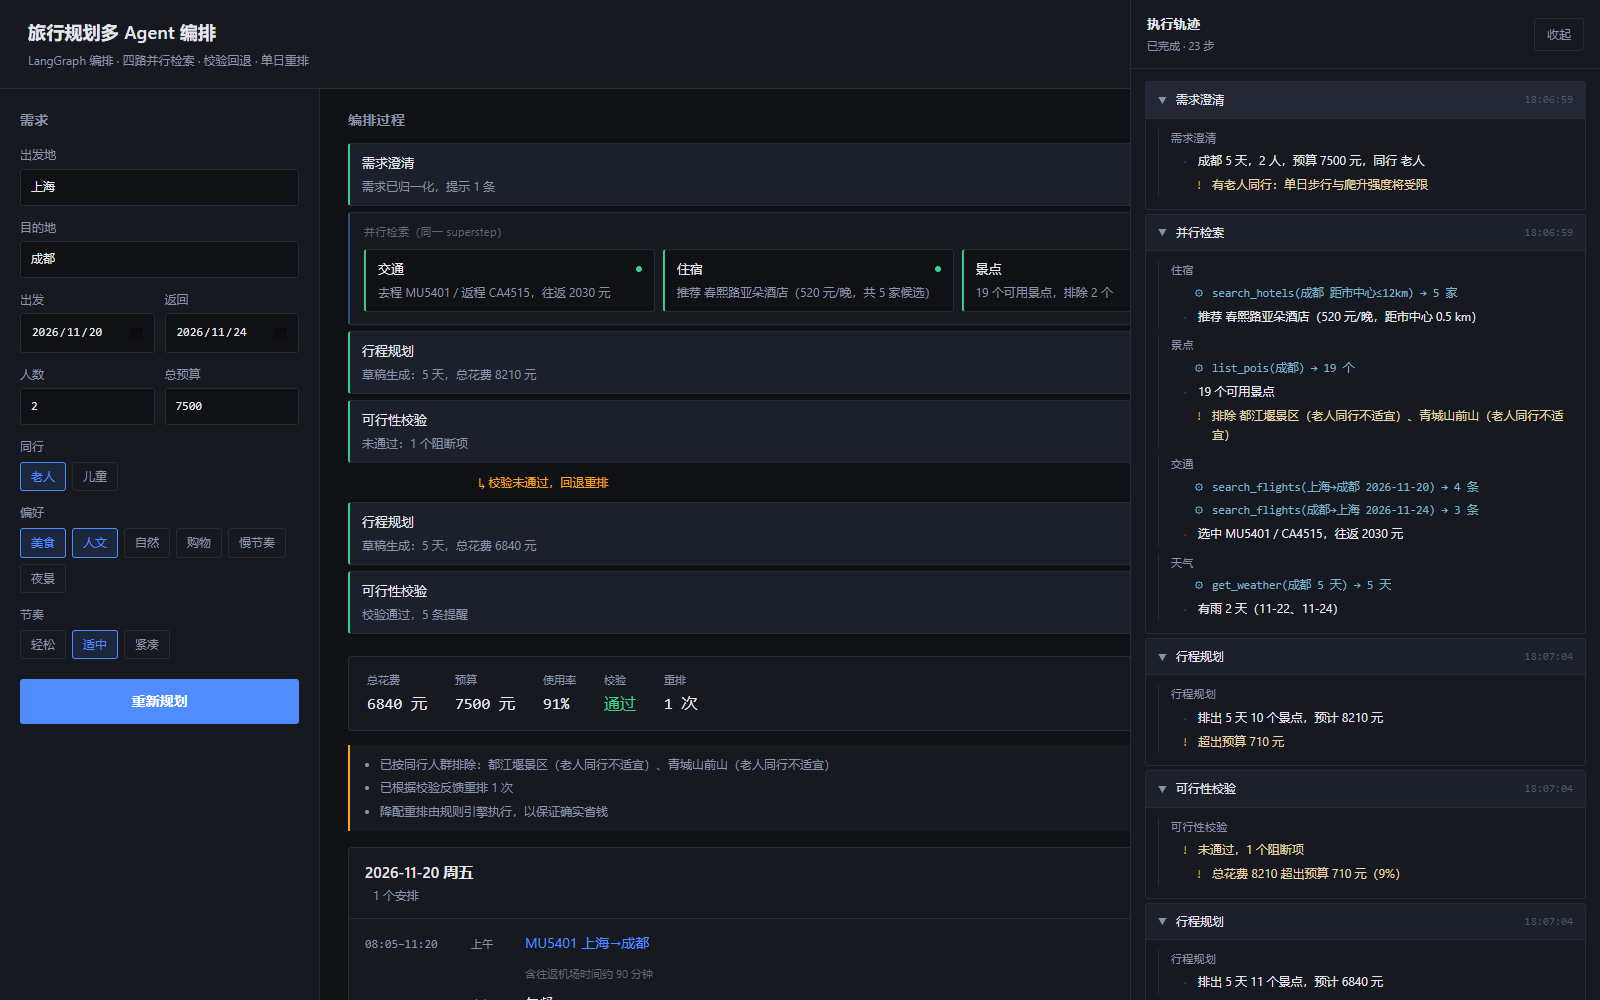
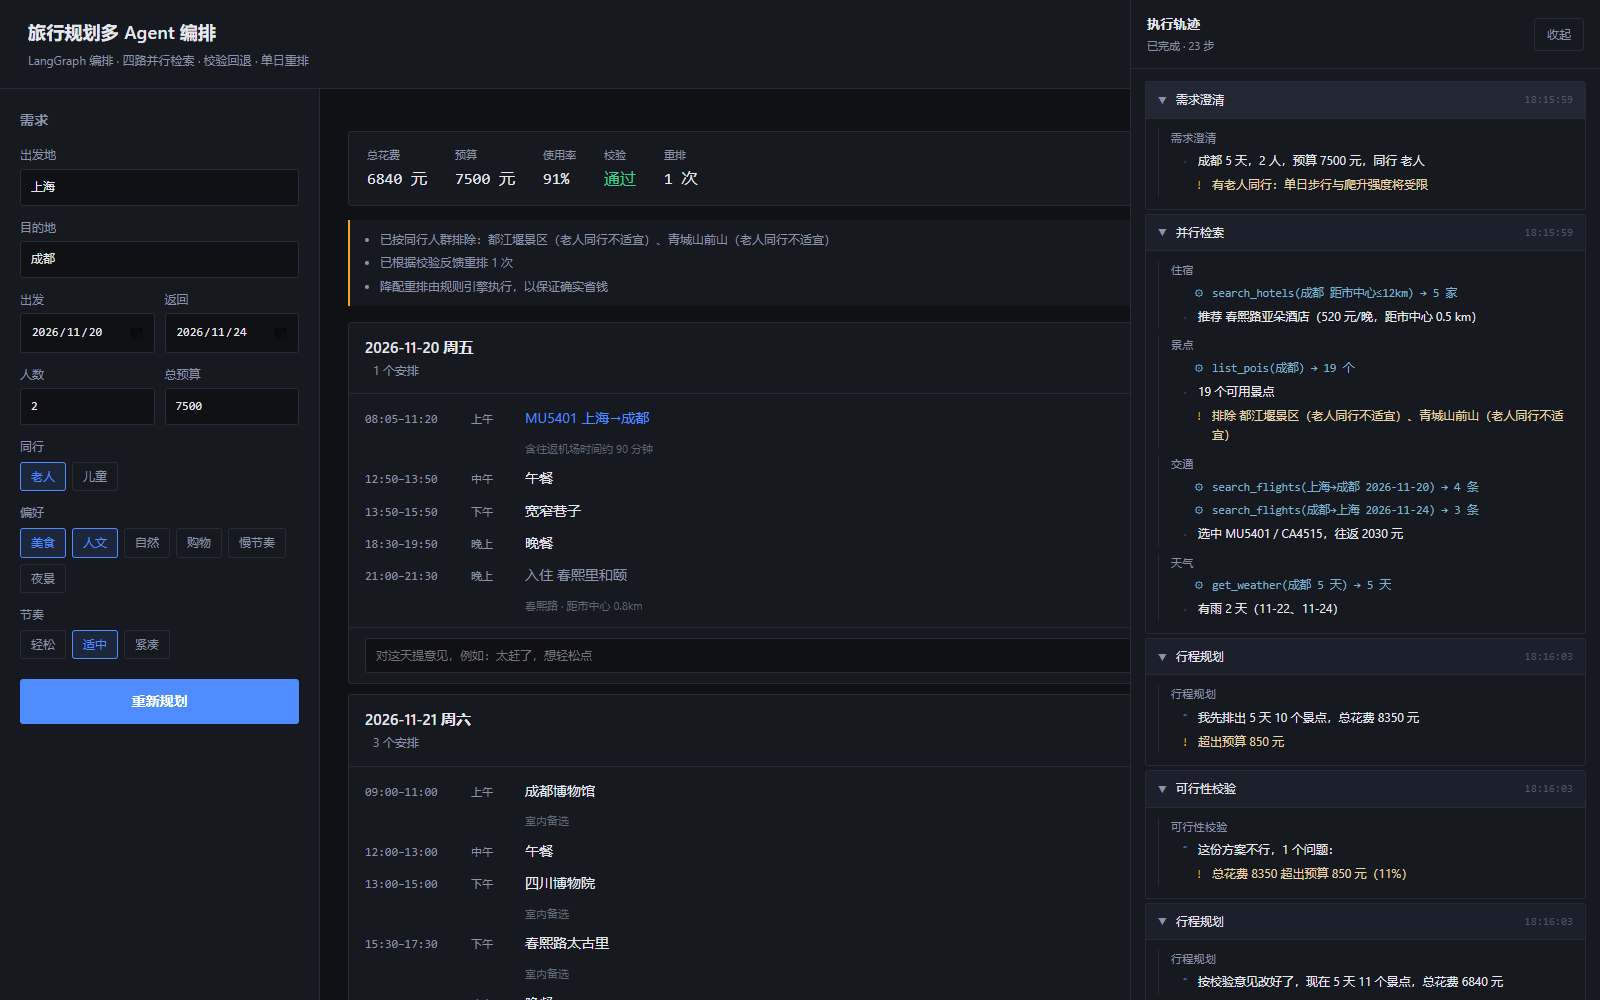
feat: 规划-校验-重排改为对话式轨迹，主区去掉重复的时间线
- planner/critic 的往复改为对话表述：先排出… / 这份方案不行… / 按校验意见改好了… / 没问题，可以定稿
- 移除主区编排过程卡片，过程只在右侧抽屉展示，避免与轨迹重复
- 清理因此失效的 renderAgent / groupCards / NODE_LABEL / PARALLEL 与 timelineRef
- verify_ui 改为检查抽屉内轨迹

diff --git a/frontend/src/App.tsx b/frontend/src/App.tsx
@@ -55,18 +55,6 @@ type Result = {
   activity?: LogEntry[]
 }
 
-const NODE_LABEL: Record<string, string> = {
-  clarify: '需求澄清',
-  transport: '交通',
-  lodging: '住宿',
-  poi: '景点',
-  weather: '天气',
-  planner: '行程规划',
-  critic: '可行性校验',
-}
-
-const PARALLEL = ['transport', 'lodging', 'poi', 'weather']
-
 const PREFERENCES = ['美食', '人文', '自然', '购物', '慢节奏', '夜景']
 const PACE = ['轻松', '适中', '紧凑'] as const
 
@@ -339,7 +327,6 @@ export default function App() {
   const [llmOn, setLlmOn] = useState(false)
   const [drawerOpen, setDrawerOpen] = useState(false)
   const [liveLogs, setLiveLogs] = useState<LogEntry[]>([])
-  const timelineRef = useRef<HTMLDivElement>(null)
   const drawerRef = useRef<HTMLDivElement>(null)
 
   useEffect(() => {
@@ -380,10 +367,6 @@ export default function App() {
       })
       .catch(() => setError('该规划不存在或已失效'))
   }, [])
-
-  useEffect(() => {
-    timelineRef.current?.scrollTo({ top: timelineRef.current.scrollHeight, behavior: 'smooth' })
-  }, [cards])
 
   // 轨迹面板跟随最新一条自动滚动
   useEffect(() => {
@@ -556,42 +539,6 @@ export default function App() {
   }
 
   const doneCount = cards.filter((c) => c.kind === 'node' && c.status === 'done').length
-
-  function renderAgent(c: Card) {
-    return (
-      <article key={c.key} className={`agent ${c.status} ${PARALLEL.includes(c.node) ? 'in-group' : ''}`}>
-        <div className="agent-head">
-          <span className="agent-name">{NODE_LABEL[c.node] ?? c.node}</span>
-          <span className={`dot ${c.status}`} />
-        </div>
-        <p className="agent-summary">
-          {c.summary ??
-            (c.status === 'running'
-              ? c.node === 'confirm'
-                ? '等待你决定…'
-                : '执行中…'
-              : c.status === 'waiting'
-                ? '等待中'
-                : '')}
-        </p>
-      </article>
-    )
-  }
-
-  /** 把连续的并行节点聚成一组，视觉上体现同一 superstep 并发 */
-  function groupCards(list: Card[]) {
-    const out: ({ kind: 'single'; card: Card } | { kind: 'group'; cards: Card[]; key: string })[] = []
-    for (const c of list) {
-      if (c.kind === 'node' && PARALLEL.includes(c.node)) {
-        const last = out[out.length - 1]
-        if (last && last.kind === 'group') last.cards.push(c)
-        else out.push({ kind: 'group', cards: [c], key: `g-${c.key}` })
-      } else {
-        out.push({ kind: 'single', card: c })
-      }
-    }
-    return out
-  }
 
   return (
     <div className="shell">
@@ -776,31 +723,6 @@ export default function App() {
 
         <main className="main">
           {error && <div className="alert">{error}</div>}
-
-          {cards.length > 0 && (
-            <section className="timeline-wrap">
-              <div className="section-head">
-                <h2>编排过程</h2>
-                <span className="hint">四路检索并行执行，校验不通过会回退重排</span>
-              </div>
-              <div className="timeline" ref={timelineRef}>
-                {groupCards(cards).map((g) =>
-                  g.kind === 'group' ? (
-                    <div key={g.key} className="parallel-group">
-                      <span className="group-label">并行检索（同一 superstep）</span>
-                      <div className="parallel-cells">{g.cards.map(renderAgent)}</div>
-                    </div>
-                  ) : g.card.kind === 'edge' ? (
-                    <div key={g.card.key} className="edge">
-                      ↳ {g.card.reason}
-                    </div>
-                  ) : (
-                    renderAgent(g.card)
-                  ),
-                )}
-              </div>
-            </section>
-          )}
 
           {interruptInfo && (
             <section className="interrupt">

diff --git a/backend/app/graph/build.py b/backend/app/graph/build.py
@@ -187,10 +187,22 @@ def _log_lines(node: str, upd: dict, state: TripState) -> list:
         elif node == "planner":
             it = upd["draft"]
             sights = sum(1 for d in it.days for i in d.items if i.type == "sight")
-            lines.append(
-                entry("planner", f"排出 {len(it.days)} 天 {sights} 个景点，预计 {it.total_cost:.0f} 元", group=group)
-            )
+            revision = state.get("revision", 0)
             over = it.total_cost - it.budget_total
+            if revision == 0 and over <= 0:
+                lead = "我排出"
+            elif revision == 0:
+                lead = "我先排出"
+            else:
+                lead = "按校验意见改好了，现在"
+            lines.append(
+                entry(
+                    "planner",
+                    f"{lead} {len(it.days)} 天 {sights} 个景点，总花费 {it.total_cost:.0f} 元",
+                    kind="speech",
+                    group=group,
+                )
+            )
             if over > 0:
                 lines.append(entry("planner", f"超出预算 {over:.0f} 元", kind="decision", group=group))
 
@@ -198,9 +210,9 @@ def _log_lines(node: str, upd: dict, state: TripState) -> list:
             c = upd["critique"]
             blockers = [i for i in c.issues if i.severity == "blocker"]
             if c.passed:
-                lines.append(entry("critic", f"通过，{len(c.issues)} 条提醒", group=group))
+                lines.append(entry("critic", f"没问题，可以定稿（{len(c.issues)} 条提醒）", kind="speech", group=group))
             else:
-                lines.append(entry("critic", f"未通过，{len(blockers)} 个阻断项", kind="decision", group=group))
+                lines.append(entry("critic", f"这份方案不行，{len(blockers)} 个问题：", kind="speech", group=group))
                 for i in blockers[:4]:
                     lines.append(entry("critic", i.message, kind="decision", group=group, depth=2))
     except Exception:

diff --git a/backend/scripts/verify_ui.py b/backend/scripts/verify_ui.py
@@ -58,8 +58,14 @@ def main() -> int:
         check("校验状态存在", any("通过" in s or "未解决" in s for s in stats), str(stats))
 
         trace_cards = page.locator(".agent").count()
-        print(f"  编排过程卡片 {trace_cards} 个")
-        check("时间线有内容", trace_cards >= 7, str(trace_cards))
+        print(f"  编排过程卡片 {trace_cards} 个（已移入右侧抽屉）")
+        # 过程展示已从主区移到右侧执行轨迹抽屉，这里改为检查抽屉内容
+        page.get_by_role("button", name="执行轨迹").click()
+        page.wait_for_selector(".drawer", timeout=10000)
+        trace_rows = page.locator(".log-row").count()
+        print(f"  抽屉内轨迹 {trace_rows} 行")
+        check("轨迹有内容", trace_rows >= 7, str(trace_rows))
+        page.get_by_role("button", name="收起").click()
 
         page.screenshot(path=str(DOCS / "shot-ui-done.png"), full_page=True)
 
